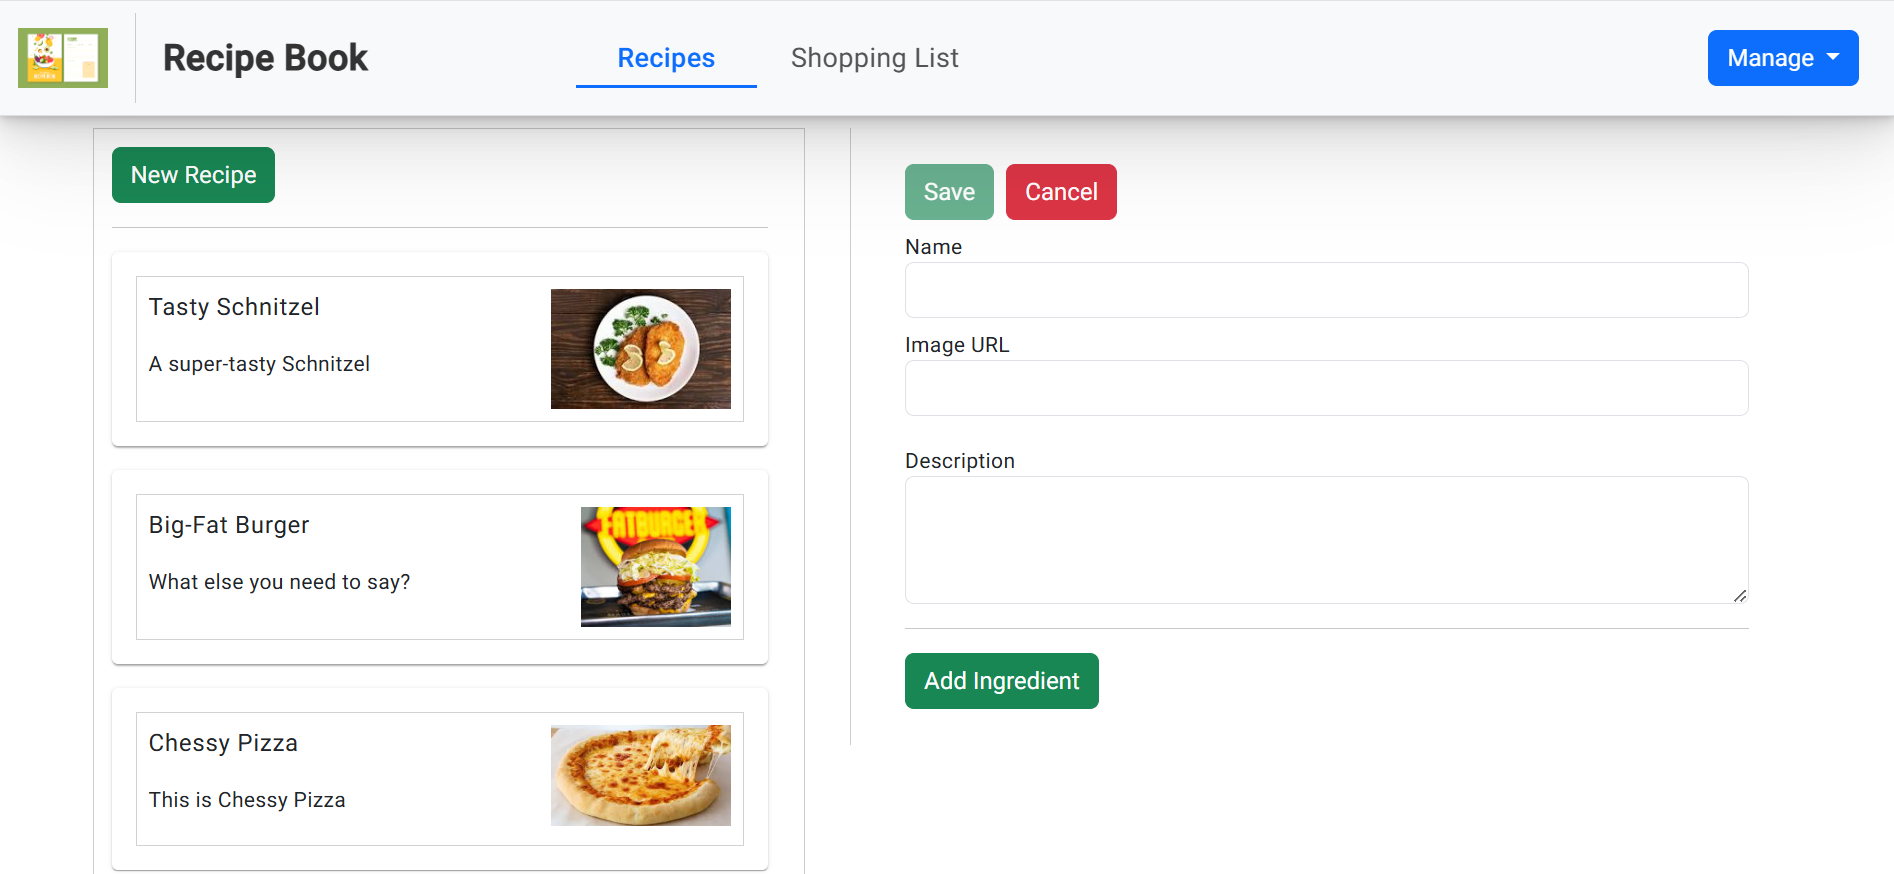
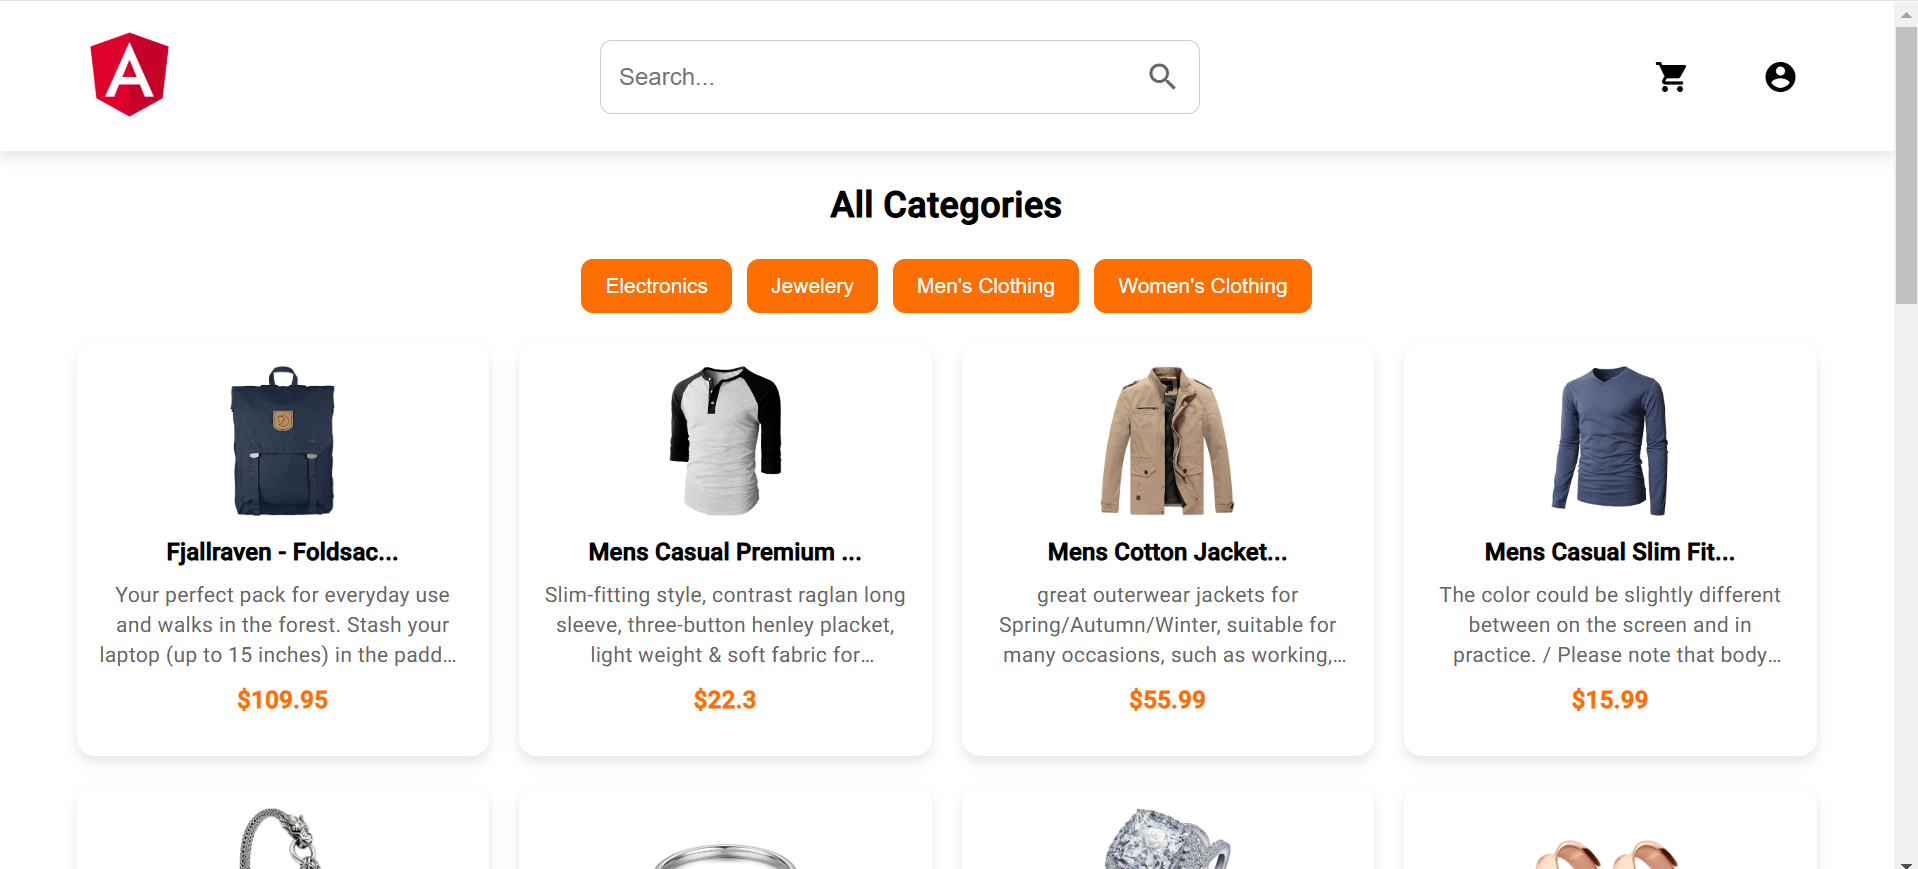
changes added

diff --git a/src/components/Project.jsx b/src/components/Project.jsx
@@ -38,7 +38,7 @@ const Project = () => {
                                     </div>
                                 </h3>
                                 <p className="project-description">
-                                    This is the expense tracker made in Video course that teaches how to build a web app with the Spotify Web API. Topics covered include the principles of REST APIs, user auth flows, Node, Express, React, Styled Components, and more.
+                                    A comprehensive expense management application built with Angular, allowing users to track their spending, categorize expenses, and generate detailed financial reports. The app features a user-friendly interface, seamless backend integration, and is fully mobile-responsive for on-the-go financial management.
                                 </p>
                             </div>
                         </div>
@@ -66,7 +66,35 @@ const Project = () => {
                                     </div>
                                 </h3>
                                 <p className="project-description">
-                                    Video course that teaches how to build a web app with the Spotify Web API. Topics covered include the principles of REST APIs, user auth flows, Node, Express, React, Styled Components, and more.
+                                    A developer-friendly web-based command line interface built with React.js, designed to simplify development workflows. The application stores a wide range of commands, including Angular CLI (ng new, ng build), React, Node.js, Git, and CDN integrations. With just one click, users can copy any command to their clipboard, making it easy to execute common tasks without memorizing syntax. The app is fully mobile-responsive, ensuring seamless usability across all devices.
+                                </p>
+                            </div>
+                        </div>
+                    </li>
+                    <li className="project-item">
+                        <div className="group relative grid pb-1 transition-all sm:grid-cols-8 sm:gap-8 md:gap-4 lg:hover:!opacity-100 lg:group-hover/list:opacity-50">
+                            <div className="background-overlay"></div>
+                            <header className="project-header" aria-label="2024 to Present">
+                                <div className="project-image aspect-video object-cover rounded border-2 border-slate-200/10 transition group-hover:border-slate-200/30 sm:order-1 sm:col-span-2 sm:translate-y-1 bg-gray-300 flex items-center justify-center">
+                                    <img className='img' src={project6} alt="project-1" />
+                                </div>
+                            </header>
+                            <div className="project-details">
+                                <h3 className="project-title">
+                                    <div>
+                                        <a href='https://angular-store-app-xi.vercel.app/' className="project-link" target="_blank" rel="noreferrer noopener" >
+                                            <span className="link-overlay"></span>
+                                            <span>
+                                                E-commerce Application using Angular {""}
+                                                <span className="company-name">
+                                                    <i className="ri-arrow-right-up-long-line"></i>
+                                                </span>
+                                            </span>
+                                        </a>
+                                    </div>
+                                </h3>
+                                <p className="project-description">
+                                    A fully functional e-commerce platform built with Angular, offering features like product listings, shopping cart management, and secure checkout processes. The application is optimized for performance and is mobile-responsive, providing a seamless shopping experience on both desktop and mobile devices.
                                 </p>
                             </div>
                         </div>
@@ -82,7 +110,7 @@ const Project = () => {
                             <div className="project-details">
                                 <h3 className="project-title">
                                     <div>
-                                        <a href='https://code-pwa.vercel.app/' className="project-link" target="_blank" rel="noreferrer noopener" >
+                                        <a href='https://command-line-angular.vercel.app/' className="project-link" target="_blank" rel="noreferrer noopener" >
                                             <span className="link-overlay"></span>
                                             <span>
                                                 Command Line using Angular {""}
@@ -94,7 +122,7 @@ const Project = () => {
                                     </div>
                                 </h3>
                                 <p className="project-description">
-                                    Video course that teaches how to build a web app with the Spotify Web API. Topics covered include the principles of REST APIs, user auth flows, Node, Express, React, Styled Components, and more.
+                                    An interactive command-line tool developed with Angular, tailored to streamline development tasks. It provides a curated list of essential commands for frameworks like Angular (ng serve, npm install), React, Node.js, and Git. Developers can quickly copy commands to their clipboard with a single click, saving time and reducing errors. The application is fully mobile-responsive, making it a convenient and accessible tool for developers on the go.
                                 </p>
                             </div>
                         </div>
@@ -122,7 +150,7 @@ const Project = () => {
                                     </div>
                                 </h3>
                                 <p className="project-description">
-                                    Video course that teaches how to build a web app with the Spotify Web API. Topics covered include the principles of REST APIs, user auth flows, Node, Express, React, Styled Components, and more.
+                                    A mobile-friendly expense tracker developed with React.js, designed to help users manage their finances on the go. The app includes features like expense categorization, budget tracking, and visual analytics, and is fully mobile-responsive for a consistent experience on any device.
                                 </p>
                             </div>
                         </div>
@@ -150,35 +178,7 @@ const Project = () => {
                                     </div>
                                 </h3>
                                 <p className="project-description">
-                                    Video course that teaches how to build a web app with the Spotify Web API. Topics covered include the principles of REST APIs, user auth flows, Node, Express, React, Styled Components, and more.
-                                </p>
-                            </div>
-                        </div>
-                    </li>
-                    <li className="project-item">
-                        <div className="group relative grid pb-1 transition-all sm:grid-cols-8 sm:gap-8 md:gap-4 lg:hover:!opacity-100 lg:group-hover/list:opacity-50">
-                            <div className="background-overlay"></div>
-                            <header className="project-header" aria-label="2024 to Present">
-                                <div className="project-image aspect-video object-cover rounded border-2 border-slate-200/10 transition group-hover:border-slate-200/30 sm:order-1 sm:col-span-2 sm:translate-y-1 bg-gray-300 flex items-center justify-center">
-                                    <img className='img' src={project6} alt="project-1" />
-                                </div>
-                            </header>
-                            <div className="project-details">
-                                <h3 className="project-title">
-                                    <div>
-                                        <a href='https://recipe-prod.netlify.app/recipes' className="project-link" target="_blank" rel="noreferrer noopener" >
-                                            <span className="link-overlay"></span>
-                                            <span>
-                                                Recipe Book App using Angular {""}
-                                                <span className="company-name">
-                                                    <i className="ri-arrow-right-up-long-line"></i>
-                                                </span>
-                                            </span>
-                                        </a>
-                                    </div>
-                                </h3>
-                                <p className="project-description">
-                                    Video course that teaches how to build a web app with the Spotify Web API. Topics covered include the principles of REST APIs, user auth flows, Node, Express, React, Styled Components, and more.
+                                    A classic Simon game implemented using vanilla JavaScript, offering a fun and interactive way to test memory and concentration. The game features colorful visuals, sound effects, and increasing levels of difficulty. It is fully mobile-responsive, ensuring an engaging experience on both desktop and mobile devices.
                                 </p>
                             </div>
                         </div>
